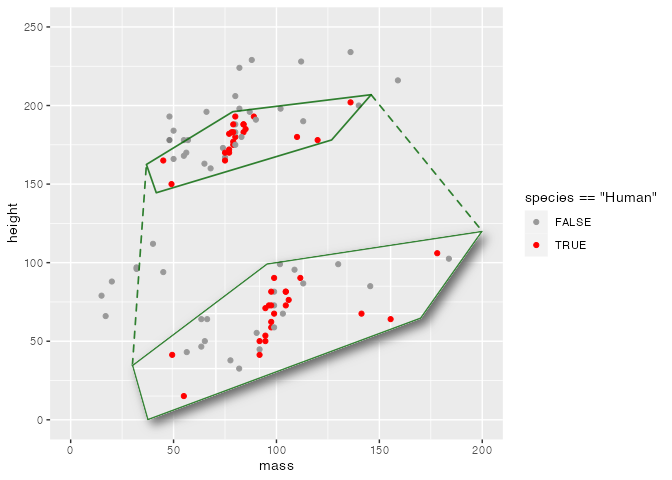
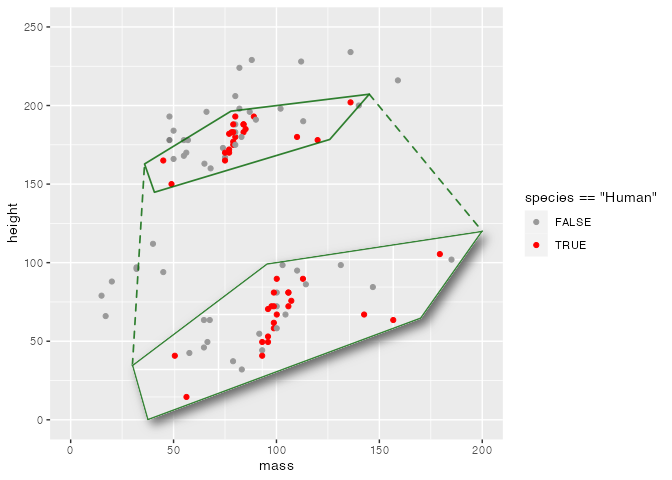
Add `rect_around()` and `hull_around()`.

diff --git a/README.md b/README.md
@@ -135,11 +135,8 @@ humans <- starwars |>
   filter(species == "Human") |> 
   select(mass, height) |> 
   na.omit()
-hhull <- humans[grDevices::chull(humans),]
+hhull <- hull_around(mass, height, data = humans, expand = 0.2)
 
-rescale <- function (x, sc) (x - mean(x)) * sc + mean(x)
-hhull$mass <- rescale(hhull$mass, 1.2)
-hhull$height <- rescale(hhull$height, 1.2)
 
 ggplot(starwars, aes(mass, height, color = species == "Human")) + 
   geom_point() + xlim(0, 200) + ylim(0, 250) + 
